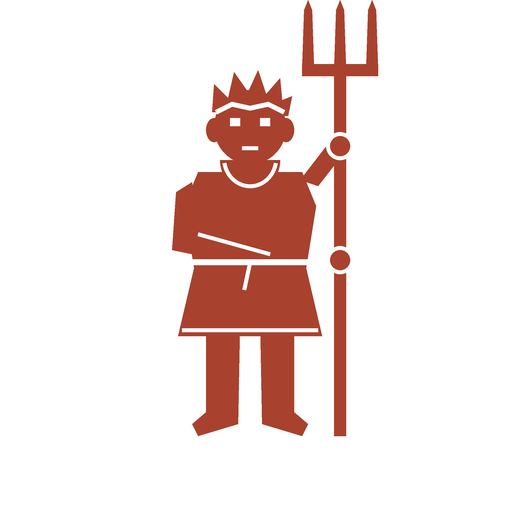
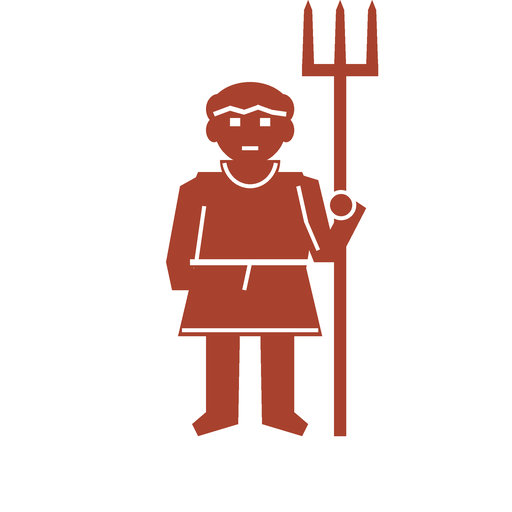
Militia figure: rounded short hair instead of spikes, the right arm from the shoulder to the shaft
Claude-Session: https://claude.ai/code/session_01UK1Gfv53CfGeqEF8YWrCgY

diff --git a/haunt-roll-fail/nort/tools/militia-figure.py b/haunt-roll-fail/nort/tools/militia-figure.py
@@ -30,17 +30,20 @@ def shapes(d, colour, detail):
     d.polygon(p((260, 316), (294, 316), (294, 412), (308, 424), (302, 436), (262, 424)), fill=colour)
     # Tunic: shoulders down to a flared hem over the thighs
     d.polygon(p((198, 172), (302, 172), (316, 206), (306, 268), (322, 336), (178, 336), (194, 268), (184, 206)), fill=colour)
-    # Both arms forward to the pitchfork's shaft: the near arm across the body, the far one raised
-    d.polygon(p((192, 182), (176, 192), (172, 250), (268, 270), (276, 252), (196, 232)), fill=colour)
-    d.polygon(p((300, 180), (318, 186), (346, 150), (334, 136)), fill=colour)
+    # Arms: the left one hanging at his side, the right one a thick upper arm out from the shoulder and a forearm bent up to
+    # the pitchfork's shaft, like the bodyguard's spear arm
+    d.polygon(p((198, 176), (180, 186), (166, 262), (172, 290), (192, 290), (194, 262), (204, 206)), fill=colour)
+    d.polygon(p((292, 172), (318, 180), (330, 230), (348, 196), (366, 208), (338, 262), (314, 262), (298, 222)), fill=colour)
     # Neck and bare head, with short hair and a beard
     d.rectangle(p((236, 150), (264, 178)), fill=colour)
     d.ellipse(p((214, 90), (286, 164)), fill=colour)
     d.ellipse(p((206, 118), (222, 142)), fill=colour)
     d.ellipse(p((278, 118), (294, 142)), fill=colour)
     d.chord(p((220, 128), (280, 192)), 0, 180, fill=colour)
-    # Unkempt hair: tufts sticking up over the crown
-    d.polygon(p((212, 112), (214, 84), (228, 98), (234, 72), (248, 92), (258, 70), (266, 94), (280, 78), (282, 100), (292, 96), (288, 116)), fill=colour)
+    # Short hair: a rounded mop over the crown with a fringe over the forehead
+    d.pieslice(p((208, 82), (292, 146)), 180, 360, fill=colour)
+    d.ellipse(p((206, 94), (230, 124)), fill=colour)
+    d.ellipse(p((270, 94), (294, 124)), fill=colour)
     # Pitchfork: shaft, crossbar and three tines
     d.rectangle(p((334, 70), (346, 436)), fill=colour)
     d.rectangle(p((302, 64), (378, 76)), fill=colour)
@@ -50,7 +53,7 @@ def shapes(d, colour, detail):
 def details(d, colour, detail):
     w = 5 * S
     # Hairline and eyes
-    d.line(p((216, 112), (232, 104), (250, 108), (268, 104), (284, 112)), fill=detail, width=w, joint='curve')
+    d.line(p((214, 114), (230, 108), (244, 112), (258, 107), (272, 112), (286, 114)), fill=detail, width=w, joint='curve')
     d.rectangle(p((230, 118), (240, 126)), fill=detail)
     d.rectangle(p((260, 118), (270, 126)), fill=detail)
     # The short beard's edge and the mouth
@@ -60,12 +63,11 @@ def details(d, colour, detail):
     d.line(p((190, 262), (310, 262)), fill=detail, width=6 * S)
     d.line(p((250, 262), (244, 290)), fill=detail, width=4 * S)
     d.line(p((182, 330), (318, 330)), fill=detail, width=4 * S)
-    # The near arm's edge across the tunic, and the hands on the shaft
-    d.line(p((198, 234), (270, 254)), fill=detail, width=4 * S)
-    d.ellipse(p((326, 246), (354, 274)), fill=detail)
-    d.ellipse(p((330, 250), (350, 270)), fill=colour)
-    d.ellipse(p((326, 132), (354, 160)), fill=detail)
-    d.ellipse(p((330, 136), (350, 156)), fill=colour)
+    # The arms' edges against the tunic, the left hand, and the right hand on the shaft
+    d.line(p((204, 206), (196, 262)), fill=detail, width=4 * S)
+    d.line(p((298, 186), (306, 222), (318, 250)), fill=detail, width=4 * S, joint='curve')
+    d.ellipse(p((326, 190), (356, 220)), fill=detail)
+    d.ellipse(p((330, 194), (352, 216)), fill=colour)
 
 def draw(colour, detail):
     sil = Image.new('L', (N, N))
